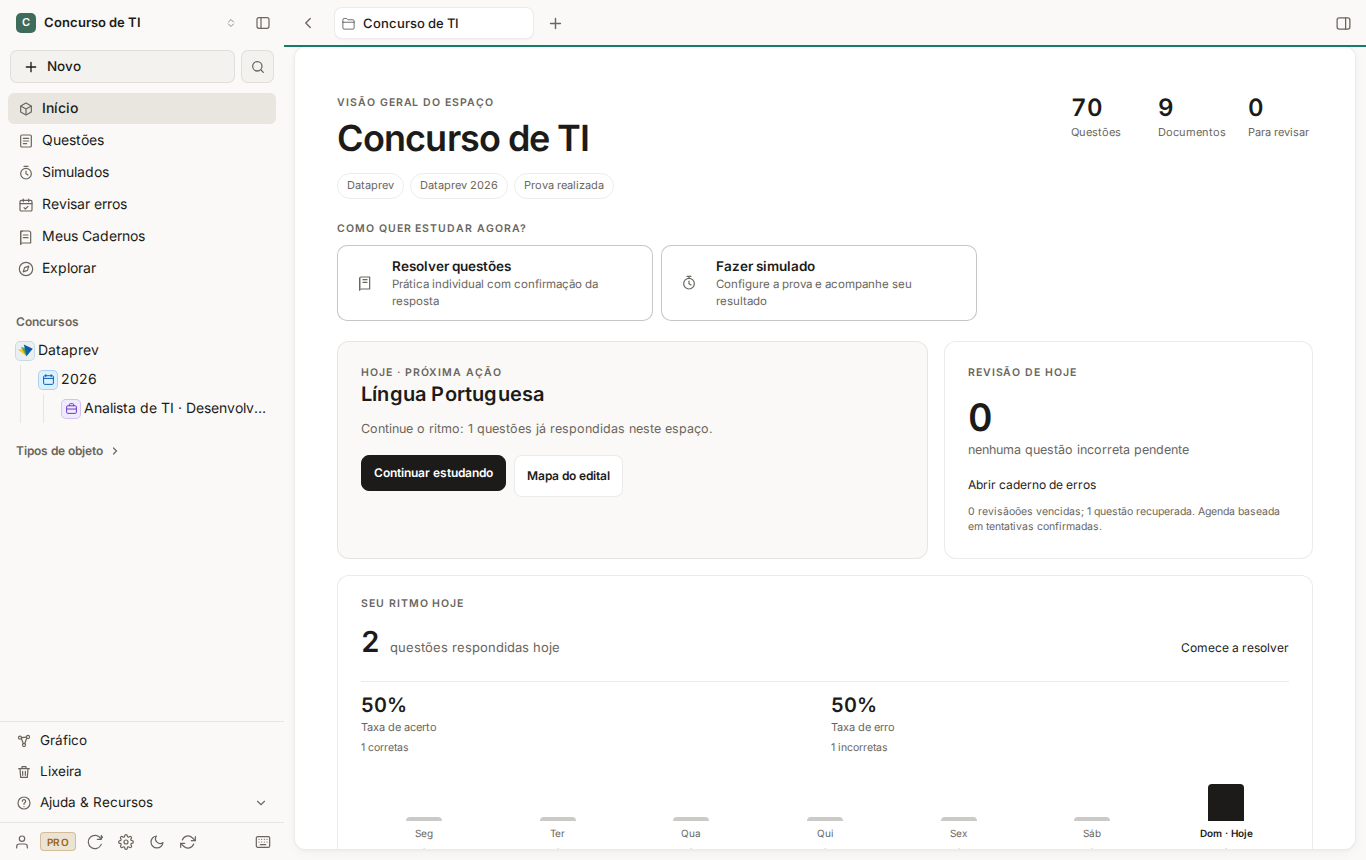
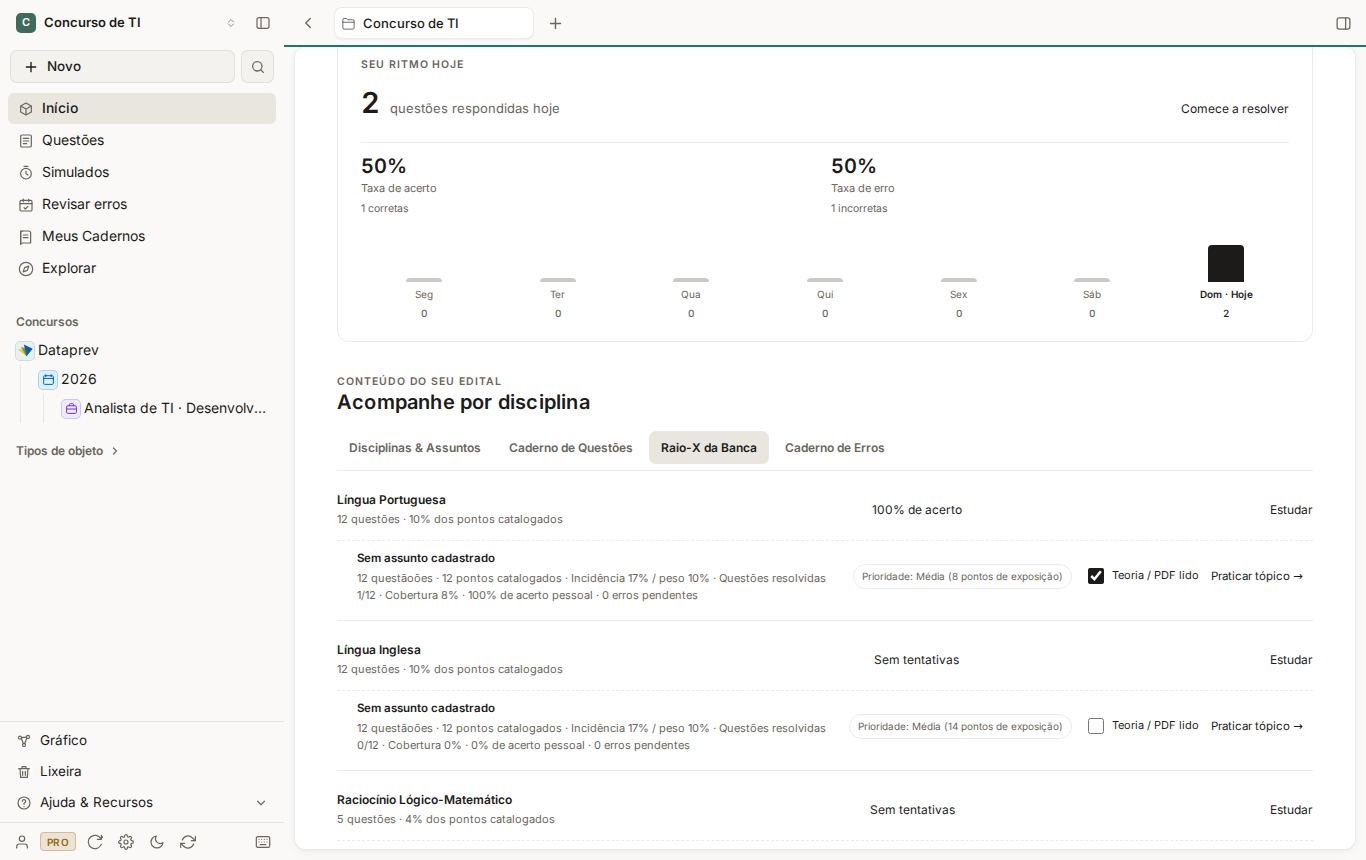
ci(recovery): validar entrega #187 e sincronizar protótipo (#197)
Adds nonfunctional source link to verified board evidence and triggers post-merge validation on dev. The issue-76 E2E proof was already tested and committed; this commit intentionally contains no CI skip instruction.

diff --git a/prototypes/exam-app-0.1.1/index.html b/prototypes/exam-app-0.1.1/index.html
@@ -7729,4 +7729,5 @@ try {
 })();
 </script>
 
+<!-- Recovery #76: tested browser evidence and limitations are versioned in ../board-exam-app/BOARD.md. -->
 </body></html>
